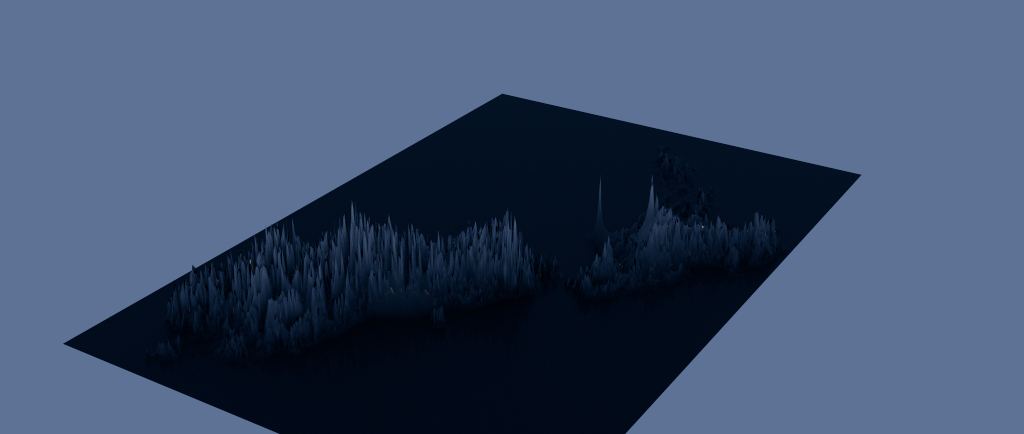
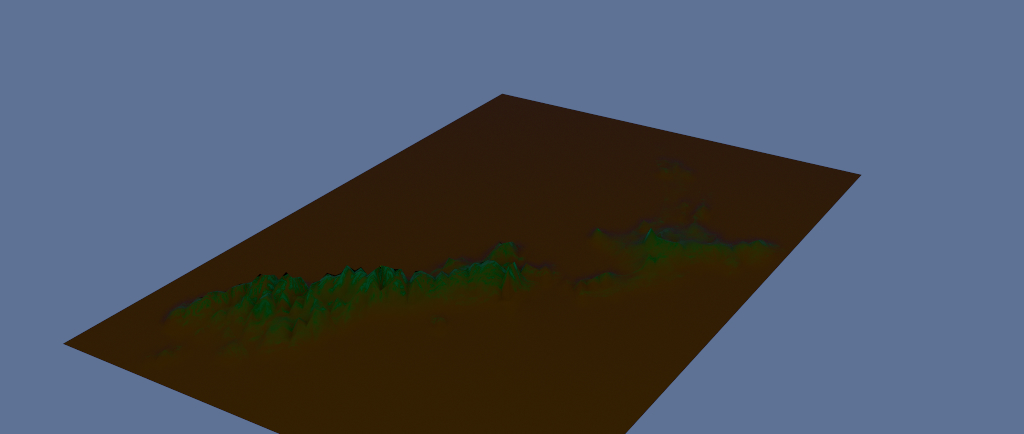
Refine New Zealand displacement baseline

diff --git a/src/materialx/materialx_closure.cpp b/src/materialx/materialx_closure.cpp
@@ -27,6 +27,8 @@ struct Value {
     std::string textureColorSpace;
     int textureChannel{-1};
     bool textureInverted{false};
+    std::array<float, 4> textureScale{1.0F, 1.0F, 1.0F, 1.0F};
+    std::array<float, 4> textureBias{};
     float normalScale{1.0F};
 };
 
@@ -508,8 +510,27 @@ private:
             const Value amount = Input(node, "mix");
             if (amount.kind != Value::Kind::Numeric) {
                 const Value background = Input(node, "bg");
-                if (background.kind == Value::Kind::Texture) return background;
                 const Value foreground = Input(node, "fg");
+                if (amount.kind == Value::Kind::Texture &&
+                    background.kind == Value::Kind::Numeric &&
+                    foreground.kind == Value::Kind::Numeric) {
+                    Value result = amount;
+                    result.type = node.type;
+                    result.textureChannel = amount.textureChannel >= 0
+                        ? amount.textureChannel : 0;
+                    const std::size_t count = ComponentCount(node.type);
+                    for (std::size_t component = 0; component < count; ++component) {
+                        const float low = background.number[component];
+                        const float high = foreground.number[component];
+                        result.textureScale[component] = amount.textureInverted
+                            ? low - high : high - low;
+                        result.textureBias[component] = amount.textureInverted
+                            ? high : low;
+                    }
+                    result.textureInverted = false;
+                    return result;
+                }
+                if (background.kind == Value::Kind::Texture) return background;
                 if (foreground.kind == Value::Kind::Texture) return foreground;
                 return background;
             }
@@ -799,6 +820,10 @@ struct ClosureCompiler final {
                 evaluator.Node(bsdf->upstreamNode);
             containsDiffuseClosure =
                 (Classify(bsdfNode) & ClosureDiffuse) != 0U;
+            const unsigned int closureKind = Classify(bsdfNode);
+            if ((closureKind & (ClosureConductor | ClosureReflection)) == 0U) {
+                material.specularWeight = 0.0F;
+            }
             VisitBsdf(bsdfNode, 0, false);
         }
         if (const MaterialXProgramInput* edf = FindInput(surface, "edf");
@@ -992,14 +1017,20 @@ private:
                          material.diffuseWeightTexture,
                          node, "diffuse weight");
             AssignColor(evaluator.Input(node, "color"), material.baseColor,
-                        material.baseColorTexture, node, "diffuse color");
-            AssignScalar(evaluator.InputOr(node, "roughness", "float", "0"),
-                         material.diffuseRoughness,
+                        material.baseColorTexture, node, "diffuse color",
+                        &material.baseColorTextureScale,
+                        &material.baseColorTextureBias,
+                        &material.baseColorTextureChannel);
+            const Value diffuseRoughness = evaluator.InputOr(
+                node, "roughness", "float", "0");
+            AssignScalar(diffuseRoughness, material.diffuseRoughness,
                          material.diffuseRoughnessTexture,
                          node, "diffuse roughness");
             material.diffuseModel = node.category == "burley_diffuse_bsdf"
                 ? SceneMaterial::DiffuseModel::Burley
-                : SceneMaterial::DiffuseModel::OrenNayar;
+                : NumericIs(diffuseRoughness, 0.0F)
+                    ? SceneMaterial::DiffuseModel::Lambert
+                    : SceneMaterial::DiffuseModel::OrenNayar;
             if (node.category == "oren_nayar_diffuse_bsdf") {
                 const Value compensation = evaluator.InputOr(
                     node, "energy_compensation", "boolean", "false");
@@ -1360,14 +1391,30 @@ private:
 
     static void AssignColor(
         const Value& source, std::array<float, 3>& target, std::string& texture,
-        const MaterialXProgramNode& node, std::string_view role)
+        const MaterialXProgramNode& node, std::string_view role,
+        std::array<float, 3>* textureScale = nullptr,
+        std::array<float, 3>* textureBias = nullptr,
+        int* textureChannel = nullptr)
     {
         if (source.kind == Value::Kind::Texture) {
-            if (source.textureChannel >= 0 || source.textureInverted) {
+            const bool transformed = source.textureChannel >= 0 ||
+                source.textureInverted ||
+                !std::ranges::equal(source.textureScale,
+                    std::array<float, 4>{1.0F, 1.0F, 1.0F, 1.0F}) ||
+                !std::ranges::equal(source.textureBias,
+                    std::array<float, 4>{});
+            if (transformed && (!textureScale || !textureBias || !textureChannel)) {
                 throw std::runtime_error(NodeError(
-                    node, "uses a swizzled or inverted color texture"));
+                    node, "uses a transformed color texture unsupported by this role"));
             }
             texture = source.texture;
+            if (textureScale) {
+                std::copy_n(source.textureScale.begin(), 3U, textureScale->begin());
+            }
+            if (textureBias) {
+                std::copy_n(source.textureBias.begin(), 3U, textureBias->begin());
+            }
+            if (textureChannel) *textureChannel = source.textureChannel;
             return;
         }
         if (source.kind != Value::Kind::Numeric) {

diff --git a/src/gpu/vulkan_path_tracer.cpp b/src/gpu/vulkan_path_tracer.cpp
@@ -55,6 +55,8 @@ struct GpuMaterial {
     vec4 sheenColorMode;
     vec4 diffuseProperties;
     vec4 translucentColorWeight;
+    vec4 baseColorTextureScale;
+    vec4 baseColorTextureBias;
     uvec4 textureIndices0;
     uvec4 textureIndices1;
     uvec4 textureIndices2;
@@ -1292,9 +1294,16 @@ void main()
             throughput *= exp(-mediumAbsorption * distance);
         }
         GpuMaterial material = materials[triangleMaterials[primitive]];
-        vec3 baseColorRgb = sampleMaterialTexture(
-            material.textureIndices0.x, surfaceUv,
-            vec4(material.baseColorMetalness.rgb, 1.0)).rgb;
+        vec3 baseColorRgb = material.baseColorMetalness.rgb;
+        if (material.textureIndices0.x != 0xffffffffu) {
+            vec4 baseColorSample = sampleMaterialTexture(
+                material.textureIndices0.x, surfaceUv, vec4(baseColorRgb, 1.0));
+            int channel = int(round(material.baseColorTextureScale.w));
+            vec3 sourceColor = channel < 0
+                ? baseColorSample.rgb : vec3(baseColorSample[channel]);
+            baseColorRgb = material.baseColorTextureBias.rgb +
+                material.baseColorTextureScale.rgb * sourceColor;
+        }
         vec3 baseColor = vec3(reflectanceSpectrum(baseColorRgb, wavelength));
         float metalness = clamp(sampleMaterialTexture(
             material.textureIndices0.y, surfaceUv,
@@ -1911,6 +1920,8 @@ struct GpuMaterial {
     std::array<float, 4> sheenColorMode;
     std::array<float, 4> diffuseProperties;
     std::array<float, 4> translucentColorWeight;
+    std::array<float, 4> baseColorTextureScale;
+    std::array<float, 4> baseColorTextureBias;
     std::array<std::uint32_t, 4> textureIndices0;
     std::array<std::uint32_t, 4> textureIndices1;
     std::array<std::uint32_t, 4> textureIndices2;
@@ -1919,7 +1930,7 @@ struct GpuMaterial {
     std::array<std::uint32_t, 4> textureIndices5;
 };
 
-static_assert(sizeof(GpuMaterial) == 21U * 16U);
+static_assert(sizeof(GpuMaterial) == 23U * 16U);
 
 struct GpuLight {
     std::array<float, 4> colorIntensity;
@@ -2771,6 +2782,8 @@ public:
                 {1.0F, 1.0F, 1.0F, 0.0F},
                 {0.0F, 0.0F, 1.0F, 0.0F},
                 {1.0F, 1.0F, 1.0F, 0.0F},
+                {1.0F, 1.0F, 1.0F, -1.0F},
+                {0.0F, 0.0F, 0.0F, 0.0F},
                 {kMissingTexture, kMissingTexture,
                  kMissingTexture, kMissingTexture},
                 {kMissingTexture, kMissingTexture,
@@ -2827,6 +2840,13 @@ public:
                  material.diffuseWeight, 0.0F},
                 {material.translucentColor[0], material.translucentColor[1],
                  material.translucentColor[2], material.translucentWeight},
+                {material.baseColorTextureScale[0],
+                 material.baseColorTextureScale[1],
+                 material.baseColorTextureScale[2],
+                 static_cast<float>(material.baseColorTextureChannel)},
+                {material.baseColorTextureBias[0],
+                 material.baseColorTextureBias[1],
+                 material.baseColorTextureBias[2], 0.0F},
                 {textureIndex(material.baseColorTexture),
                  textureIndex(material.metalnessTexture),
                  textureIndex(material.roughnessTexture),

diff --git a/tests/materialx_compiler_tests.cpp b/tests/materialx_compiler_tests.cpp
@@ -474,6 +474,39 @@ try {
               std::abs(defaultImage.closure->baseColor[2] - 0.75F) < 1e-5F,
           "MaterialX image without a file did not use its authored default");
 
+    const hdcodex::MaterialXGeneratedProgram heightRampProgram{
+        .outputNode = "surface",
+        .nodes = {
+            {.name = "height", .category = "image",
+             .nodeDef = "ND_image_float", .type = "float", .inputs = {
+                 {.name = "file", .type = "filename", .value = "height.png"}}},
+            {.name = "height_color", .category = "mix",
+             .nodeDef = "ND_mix_color3", .type = "color3", .inputs = {
+                 {.name = "bg", .type = "color3", .value = "0.22,0.075,0.018"},
+                 {.name = "fg", .type = "color3", .value = "0.10,0.42,0.075"},
+                 {.name = "mix", .type = "float", .upstreamNode = "height"}}},
+            {.name = "diffuse", .category = "oren_nayar_diffuse_bsdf",
+             .nodeDef = "ND_oren_nayar_diffuse_bsdf", .type = "BSDF", .inputs = {
+                 {.name = "color", .type = "color3", .upstreamNode = "height_color"},
+                 {.name = "roughness", .type = "float", .value = "0"}}},
+            {.name = "surface", .category = "surface", .nodeDef = "ND_surface",
+             .type = "surfaceshader", .inputs = {
+                 {.name = "bsdf", .type = "BSDF", .upstreamNode = "diffuse"}}},
+        }};
+    const auto heightRamp = hdcodex::CompileMaterialXClosure(heightRampProgram);
+    Check(heightRamp.baseColorTexture == "height.png" &&
+              heightRamp.baseColorTextureChannel == 0 &&
+              std::abs(heightRamp.baseColorTextureBias[0] - 0.22F) < 1e-5F &&
+              std::abs(heightRamp.baseColorTextureBias[1] - 0.075F) < 1e-5F &&
+              std::abs(heightRamp.baseColorTextureScale[0] + 0.12F) < 1e-5F &&
+              std::abs(heightRamp.baseColorTextureScale[1] - 0.345F) < 1e-5F,
+          "MaterialX scalar-image color ramp lost its endpoints or source channel");
+    Check(std::abs(heightRamp.specularWeight) < 1e-5F,
+          "pure MaterialX diffuse closure retained a specular lobe");
+    Check(heightRamp.diffuseModel ==
+              hdcodex::SceneMaterial::DiffuseModel::Lambert,
+          "zero-roughness MaterialX diffuse closure did not reduce to Lambert");
+
     constexpr auto sheenXml = R"mtlx(<?xml version="1.0"?>
 <materialx version="1.39">
   <sheen_bsdf name="sheen" type="BSDF">

diff --git a/include/hdcodex/core/versioned_scene.h b/include/hdcodex/core/versioned_scene.h
@@ -115,6 +115,13 @@ struct SceneMaterial {
     std::string materialXDisplacementOutputNode;
     std::vector<GeneratedNode> materialXDisplacementProgram;
     std::array<float, 3> baseColor{0.8F, 0.8F, 0.8F};
+    /// Affine transform applied to a base-color texture. A non-negative
+    /// channel replicates that scalar component before applying the transform;
+    /// -1 preserves the texture RGB value. This represents MaterialX color
+    /// ramps driven by one image without baking a renderer-specific texture.
+    std::array<float, 3> baseColorTextureScale{1.0F, 1.0F, 1.0F};
+    std::array<float, 3> baseColorTextureBias{0.0F, 0.0F, 0.0F};
+    int baseColorTextureChannel{-1};
     std::array<float, 3> emission{0.0F, 0.0F, 0.0F};
     std::array<float, 3> transmissionColor{1.0F, 1.0F, 1.0F};
     std::array<float, 3> transmissionScatter{0.0F, 0.0F, 0.0F};

diff --git a/gallery.md b/gallery.md
@@ -6,7 +6,7 @@ The checked-in baselines are 1024 pixels wide and use 1024 spatial samples to
 reduce residual path-tracing noise. They render in 32 progressive updates with
 subdivision and MaterialX displacement enabled at the deterministic level-2
 gallery setting. The New Zealand height-map scene is the deliberate exception:
-its one authored quad is uniformly refined at level 8 before displacement.
+its one authored quad is uniformly refined at level 6 before displacement.
 `render_gallery.bat` preserves the renderer's scene-linear output as temporary
 EXRs under `build/gallery-linear`, then writes these display JPEGs through a
 neutral HDR highlight compressor and the standard sRGB transfer function. An
@@ -127,7 +127,7 @@ set "HDCODEX_SAMPLES_PER_UPDATE=32"
 ### New Zealand Height Map
 
 This focused displacement baseline authors one bilinear quad and evaluates a
-raw MaterialX `ND_image_float` height map after uniform level-8 refinement. The
+raw MaterialX `ND_image_float` height map after uniform level-6 refinement. The
 same map drives the surface color so texture resolution and UV orientation are
 visible independently of the displaced silhouette.
 
